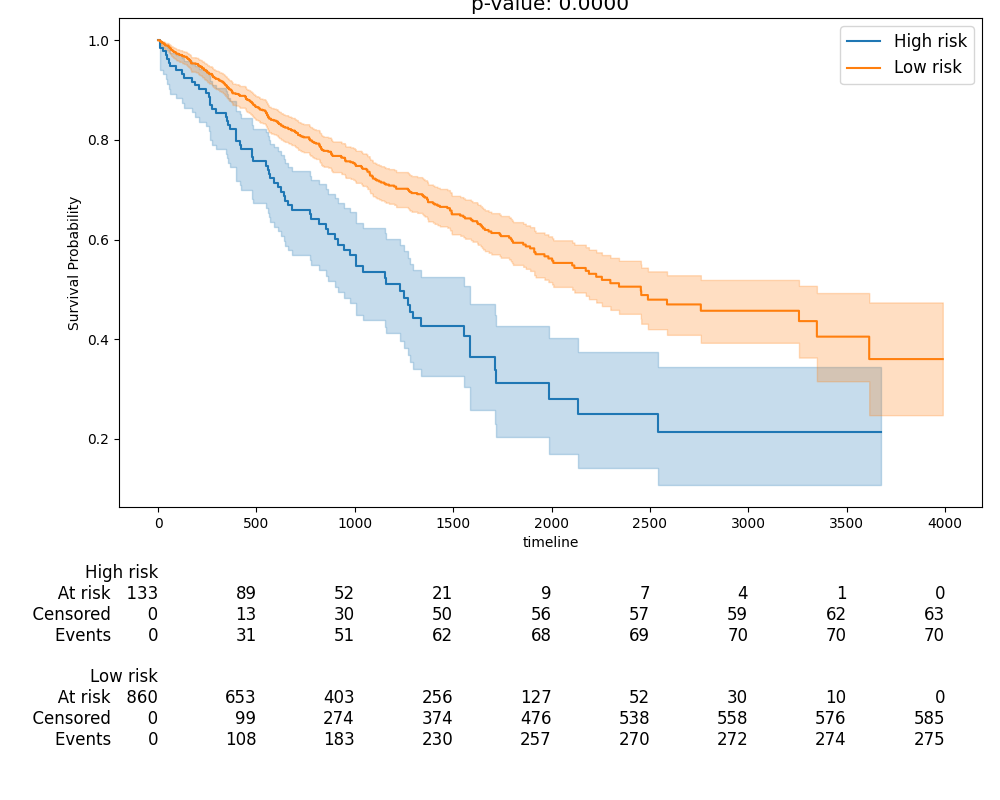
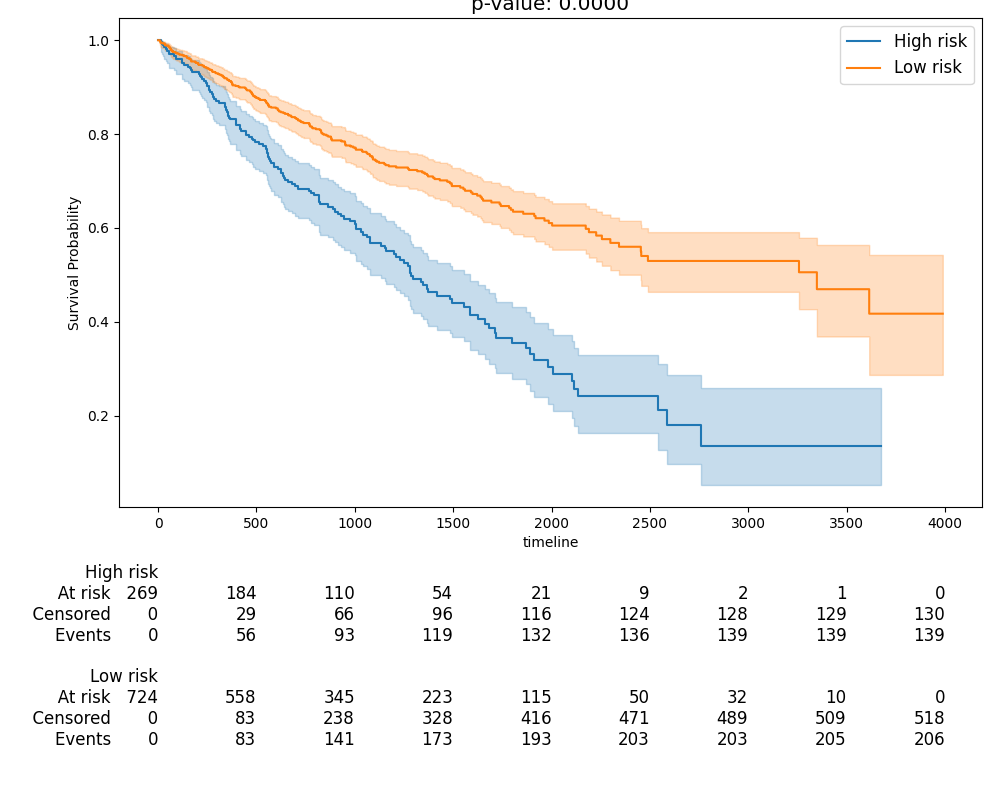
debug moe

diff --git a/modeling/vision/decomposition/bayes_decomposition.py b/modeling/vision/decomposition/bayes_decomposition.py
@@ -95,9 +95,9 @@ class BayesDec(nn.Module):
            dim=1
         )
 
-        temp = 100 * 0.954993 ** min(self.step_counter // 40, 100)
-        kl_mu_m = temp * self.sigma_0 * (mu_m - self.mu_0) * (mu_m - self.mu_0)
-        kl_sigma_m = temp * self.sigma_0 * torch.exp(log_var_m) - log_var_m
+        # temp = 10 * (1 / 10) ** (min(self.step_counter // 40, 100) / 100)
+        kl_mu_m = self.sigma_0 * (mu_m - self.mu_0) * (mu_m - self.mu_0)
+        kl_sigma_m = self.sigma_0 * torch.exp(log_var_m) - log_var_m
 
         visualize = {
             "shape": torch.concat([x, mu_x, torch.exp(log_var_x / 2)]),

diff --git a/analysis/a05_outcome_prediction/m_survival_analysis.py b/analysis/a05_outcome_prediction/m_survival_analysis.py
@@ -2168,7 +2168,7 @@ class SurvivalAnalyzer:
         bandit = ConditionalVariationalSurvivalMoE(
             rad_dim=X_rad_train.shape[1],
             path_dim=X_path_train.shape[1],
-            hidden_dim=model_params.get('variational_hidden_dim', 16),
+            hidden_dim=model_params.get('variational_hidden_dim', 8),
             n_intervals=model_params.get('survival_intervals', 4),
             learning_rate=model_params.get('variational_learning_rate', 1e-3),
             hierarchical_prior_fraction=model_params.get(
